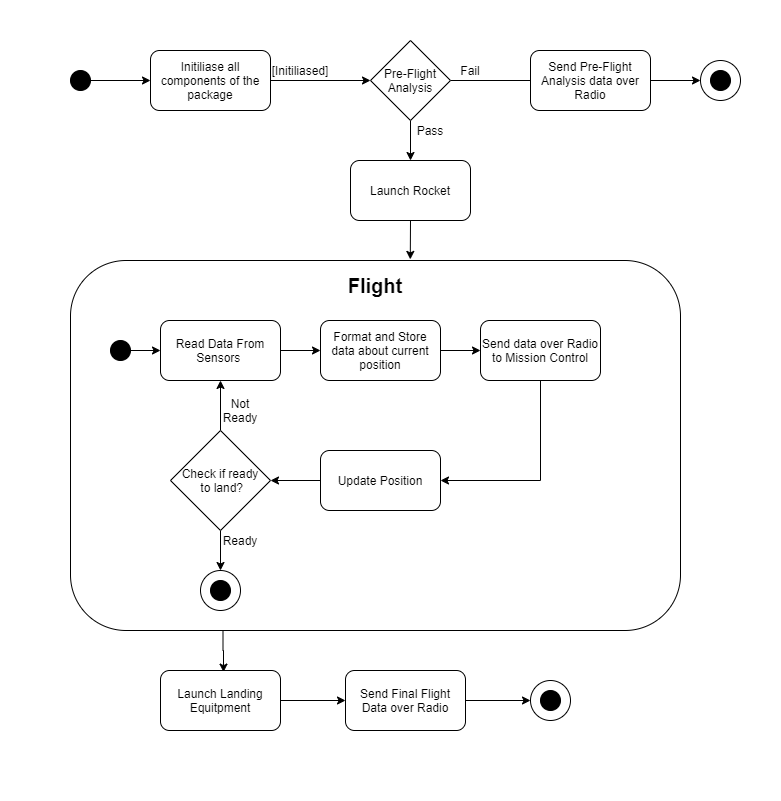
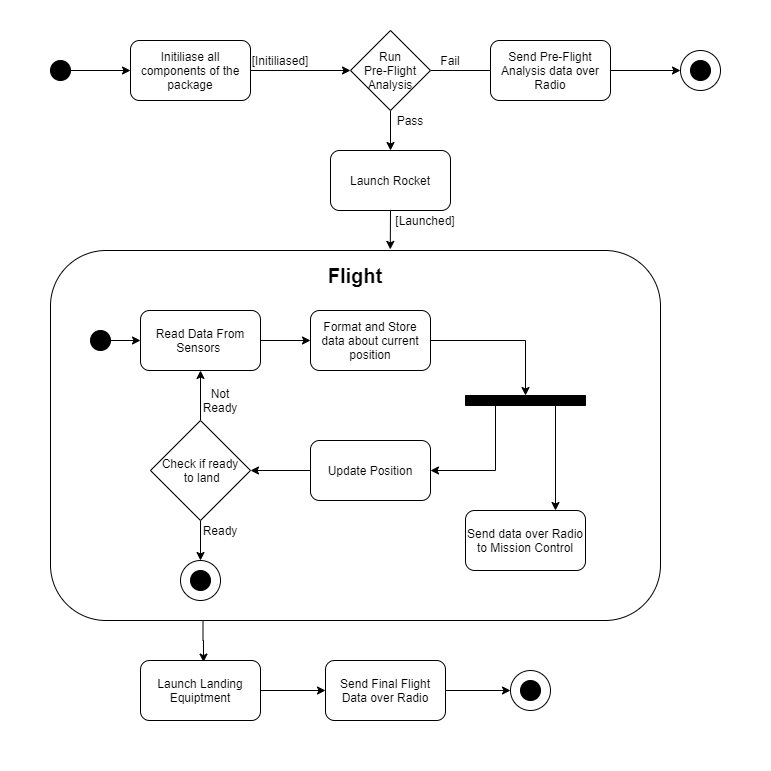
Updated diagram. Added Error Propgation concern.

diff --git a/architecture_design/architecture-design.md b/architecture_design/architecture-design.md
@@ -105,7 +105,6 @@ The Process view aims to visually explain and represent the interaction and comm
 
 ![FSM](software_architecture/process-4.3.png)
 
-
 #### 4.3.1 Concerns
 
 ##### Concurrency
@@ -118,6 +117,10 @@ One of the concerns that comes with concurrency is that the speed at which posit
 The current state of the system will be managed via the Control Package. The Radio Interface will be used for initialisation, which will communicate with the control package for running pre-flight diagnostics. The Guidance System  sub-package will be in control for the flight phase, with the Landing sub-package taking control post flight.
 
 As is common with flow control, almost all of the activities in this diagram are dependent on the successful completion of the prior activities. This logic must also be reflected in the code. The activities have a strong association with the different states of the rocket. The current state will be stored and managed via the Control package to ensure that this flow is stuck to throughout run time.
+
+##### Error Propagation
+Error Propagation is a key concern when managing the control flow of the system. Its crucial that errors don't get passed down from action to action, as it can become impossible to tell where the fault initially occurred. For example, if there's an error in the initialisation of the components then we don't want the launch sequence to be able to continue with this error. All errors need to be isolates and either correct it, or put the system in a failure state. This isolation approach has been implemented via the guards (eg. [Initiliased]) and decision nodes of the UML activity diagram, which aim to catch any errors in the higher risk activities.
+
 
 
 ### 4.4 Physical
